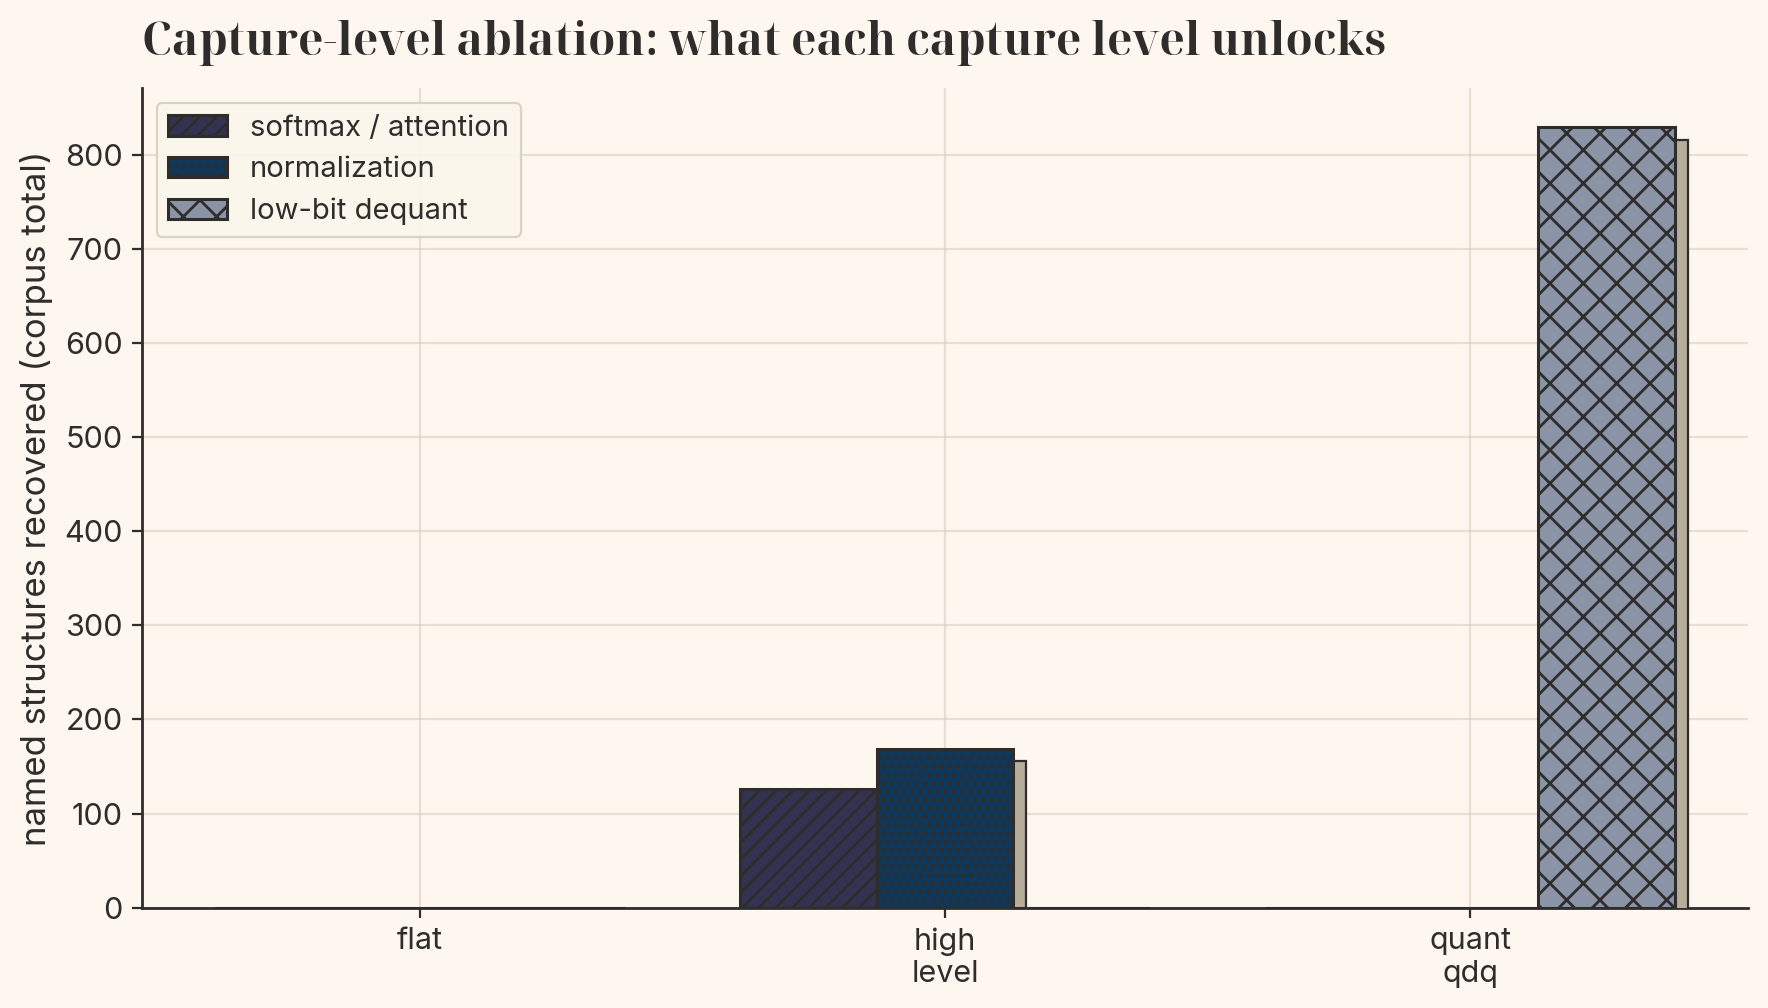
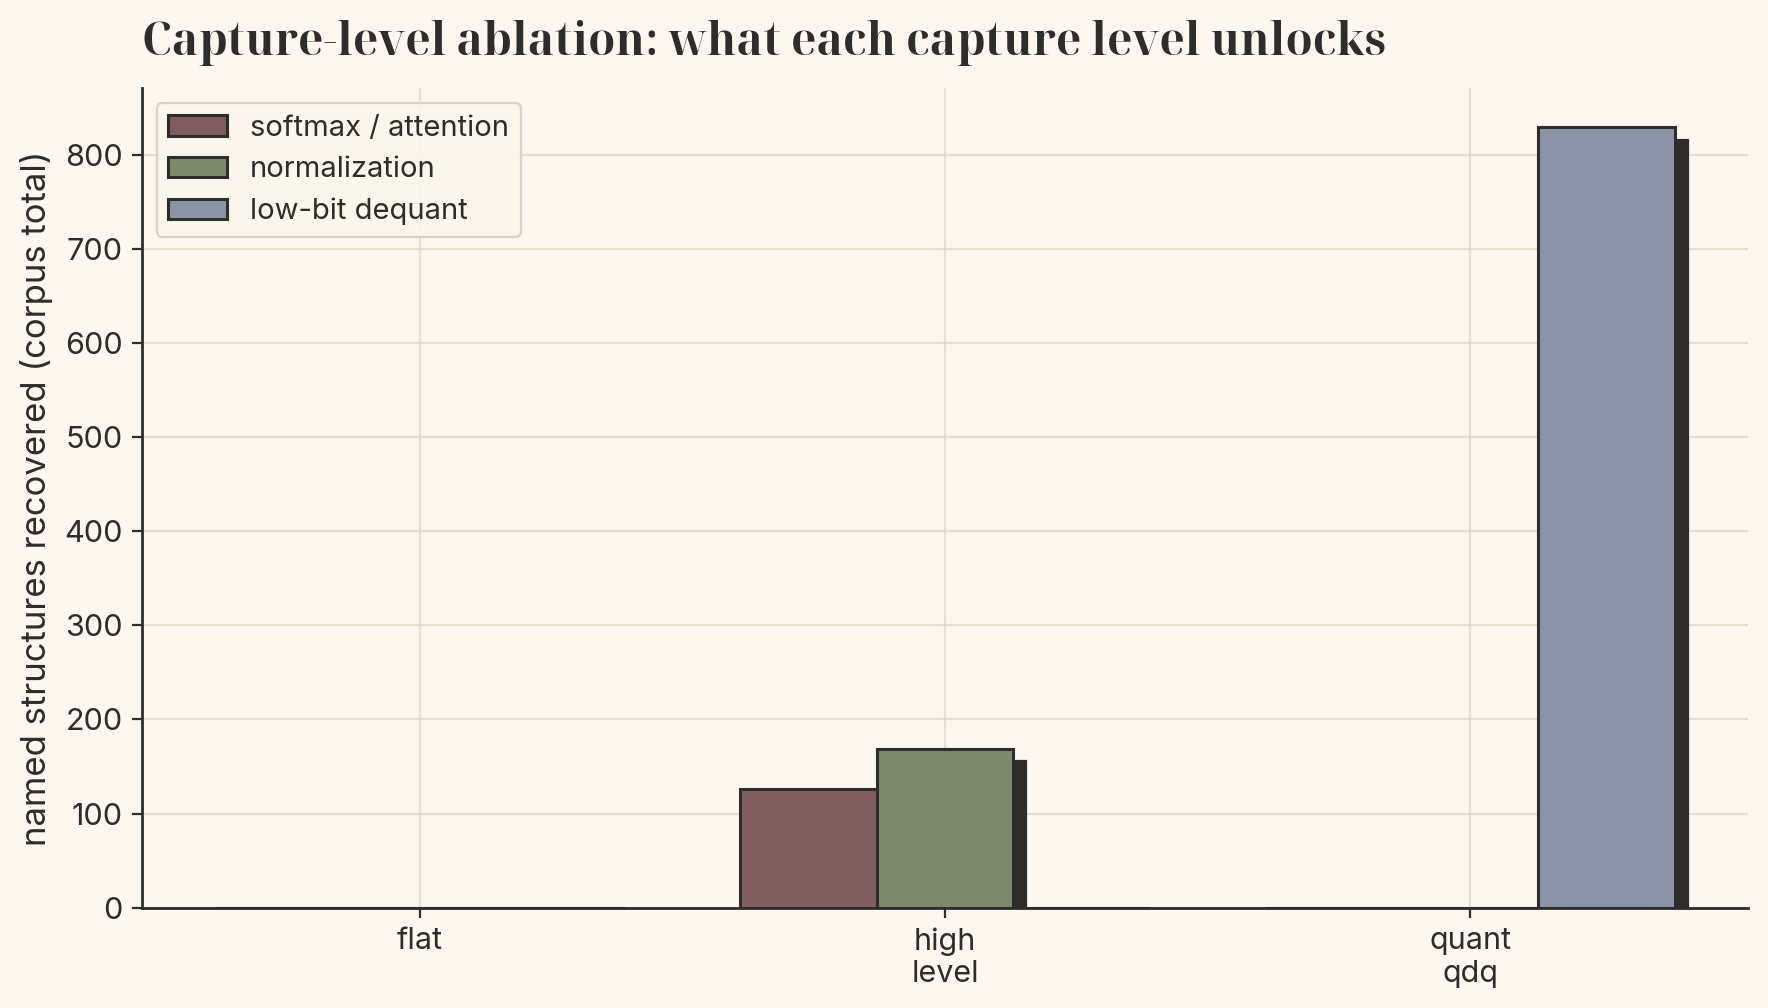
P26 fix: ash-black 3D-extrusion shadow + solid colors (patterns only as fallback)
Per the reference (image copy 7): the bar extrusion is the SOLID ash-black color (#2E2D2C), and bars
are SOLID distinct palette colors with NO pattern by default — hatches are a fallback only when a plot
has more series than palette colors (none of the curated bar plots do). Set _SHADOW=_INK; dropped the
per-bar hatches from realtime_requirement, work_coverage, deployment_magnitude, visible_linear, and gave
capture_level_ablation 3 distinct solid colors (mauve/sage/slate).

Changed region(s): [[0.871, 0.123, 0.9644, 0.8919], [0.4044, 0.7381, 0.5911, 0.9226], [0.0933, 0.0923, 0.1244, 0.2153]]

diff --git a/merlin/python/merlin/dse_guidance/presentation_final.py b/merlin/python/merlin/dse_guidance/presentation_final.py
@@ -77,7 +77,7 @@ def _title(ax, title, subtitle=None):
                     fontstyle="italic", color=_GOLD)
 
 
-_SHADOW = "#B7AD9B"   # solid taupe-grey extrusion block (matches the reference 3D-bar look)
+_SHADOW = _INK        # solid ash-black extrusion block (the reference 3D-bar look)
 
 
 def _shadow():
@@ -210,8 +210,8 @@ def _r_realtime_requirement(cs, ax):
     res = [float(r["required_weight_GBps_resident"]) for r in rows]
     x = list(range(len(wl)))
     w = 0.38
-    _bars(ax, [i - w / 2 for i in x], rel, w, _PALETTE[3], _HATCHES[1], "reload every step")
-    _bars(ax, [i + w / 2 for i in x], res, w, _PALETTE[4], _HATCHES[2], "weights resident")
+    _bars(ax, [i - w / 2 for i in x], rel, w, _PALETTE[3], "", "reload every step")
+    _bars(ax, [i + w / 2 for i in x], res, w, _PALETTE[4], "", "weights resident")
     ax.set_yscale("log")
     ax.set_xticks(x, wl, fontsize=11)
     ax.set_ylabel("required weight bandwidth (GB/s, log)")
@@ -359,7 +359,7 @@ def _r_visible_linear_fraction(cs, ax):
     wl = [r["workload"] for r in rows]
     frac = [float(r["visible_linear_fraction"]) for r in rows]
     y = list(range(len(wl)))
-    bars = ax.barh(y, frac, color=_PALETTE[1], edgecolor=_INK, linewidth=1.1, hatch=_HATCHES[1])
+    bars = ax.barh(y, frac, color=_PALETTE[1], edgecolor=_INK, linewidth=1.1)
     _extrude(ax, bars)
     for yi, f in zip(y, frac):
         ax.annotate(f"{f:.2f}", (f, yi), xytext=(5, 0), textcoords="offset points", va="center",
@@ -382,8 +382,8 @@ def _r_work_coverage_by_workload(cs, ax):
     att = [float(r["attention_macs"]) for r in rows]
     x = list(range(len(wl)))
     w = 0.4
-    _bars(ax, [i - w / 2 for i in x], lin, w, _PALETTE[0], _HATCHES[1], "linear GEMM")
-    _bars(ax, [i + w / 2 for i in x], att, w, _PALETTE[4], _HATCHES[2], "attention (recovered)")
+    _bars(ax, [i - w / 2 for i in x], lin, w, _PALETTE[0], "", "linear GEMM")
+    _bars(ax, [i + w / 2 for i in x], att, w, _PALETTE[4], "", "attention (recovered)")
     ax.set_yscale("log")
     ax.set_xticks(x, wl, rotation=30)
     ax.set_ylabel("recovered MACs (log)")
@@ -403,8 +403,8 @@ def _r_deployment_magnitude(cs, ax):
     macs = [float(r["gemm_macs_per_token"] or 0) for r in rows]
     x = list(range(len(wl)))
     w = 0.4
-    _bars(ax, [i - w / 2 for i in x], params, w, _PALETTE[1], _HATCHES[1], "GEMM params")
-    _bars(ax, [i + w / 2 for i in x], macs, w, _PALETTE[5], _HATCHES[2], "GEMM MACs / token")
+    _bars(ax, [i - w / 2 for i in x], params, w, _PALETTE[1], "", "GEMM params")
+    _bars(ax, [i + w / 2 for i in x], macs, w, _PALETTE[5], "", "GEMM MACs / token")
     ax.set_yscale("log")
     ax.set_xticks(x, wl, rotation=25)
     ax.set_ylabel("count (log)")
@@ -614,9 +614,10 @@ def _r_capture_level_ablation(cs, ax):
     levels = [lv for lv in order if lv in agg]
     x = list(range(len(levels)))
     w = 0.26
+    cols = [_PALETTE[3], _PALETTE[4], _PALETTE[2]]          # mauve / sage / slate — distinct, no pattern
     for k, (key, lbl) in enumerate(feats):
         vals = [agg[lv][key] for lv in levels]
-        _bars(ax, [i + (k - 1) * w for i in x], vals, w, _PALETTE[k], _HATCHES[k + 1], lbl)
+        _bars(ax, [i + (k - 1) * w for i in x], vals, w, cols[k], "", lbl)
     ax.set_xticks(x, [lv.replace("_", "\n") for lv in levels])
     ax.set_ylabel("named structures recovered (corpus total)")
     _title(ax, "Capture-level ablation: what each capture level unlocks")
